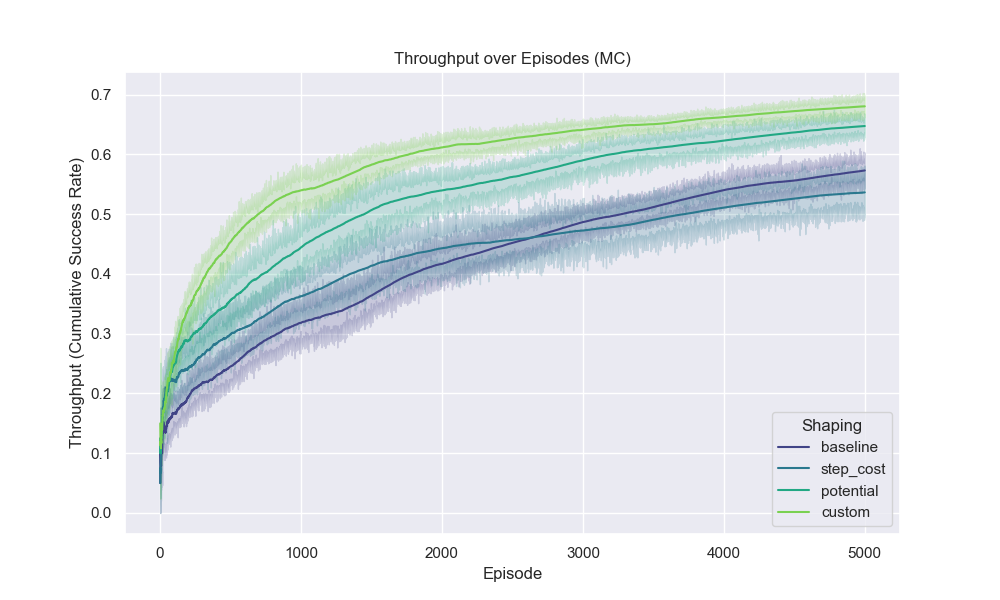
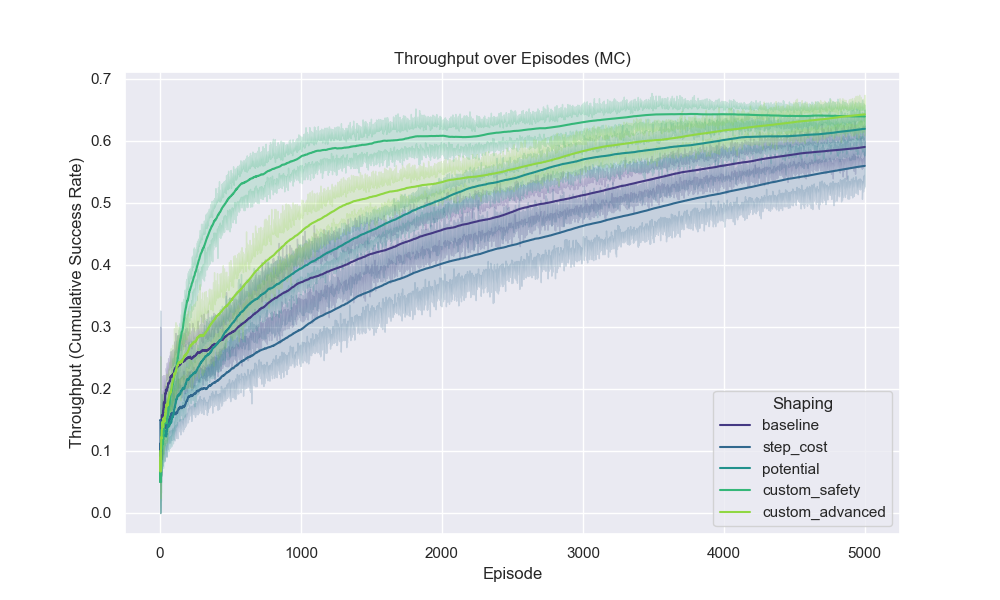
now can select if want defauly Hyper or to sweep first

diff --git a/main.py b/main.py
@@ -1,13 +1,19 @@
 import os
+import copy
 from src.maps import get_map
 from src.experiments import run_experiment_suite
-from src.plotting import plot_throughput, plot_returns, plot_policy_distance
+from src.plotting import plot_throughput, plot_returns
 from src.hyperparameter_study import find_best_hyperparameters
 
 # --- Configuration ---
 MAP_SIZE = 6            
 N_RUNS = 20             
 EPISODES = 5000         
+
+# === המתג שביקשת ===
+# True = בצע סריקה (Sweep), מצא את ה-Alpha הכי טוב, והשתמש בו (עם Gamma=1.0).
+# False = אל תבצע סריקה, השתמש בערכים המוגדרים למטה ב-TRAIN_CONFIG.
+USE_OPTIMIZED_PARAMS = True 
 
 # Environment Parameters
 ENV_CONFIG = {
@@ -22,13 +28,13 @@ ENV_CONFIG = {
     }
 }
 
-# Base Training Parameters (will be updated by sweep)
+# Base Training Parameters (Defaults)
 TRAIN_CONFIG = {
     'episodes': EPISODES,
     'agent_params': {
         'epsilon': 0.1,
-        'alpha': 0.1,   # Default placeholder
-        'gamma': 1.0,   # Default placeholder
+        'alpha': 0.1,   # ערך ברירת מחדל (אם המתג כבוי)
+        'gamma': 1.0,   # חובה להיות 1.0 בניסוי הראשי
         'min_epsilon': 0.01,
         'epsilon_decay': 0.9995 
     }
@@ -39,24 +45,33 @@ def main():
     os.makedirs("results", exist_ok=True)
     
     algorithms_to_run = ["MC", "SARSA"]
-    shaping_types = ["baseline", "step_cost", "potential", "custom"]
+    
+    # רשימת כל סוגי העיצוב (כולל החדשים שהוספנו)
+    shaping_types = ["baseline", "step_cost", "potential", "custom_safety", "custom_advanced"]
 
     for algo in algorithms_to_run:
-        # --- STEP 1: Hyperparameter Sweep ---
-        # מוצאים את הפרמטרים הכי טובים לפני שמתחילים את הניסוי הגדול
-        print(f"\nRunning sensitivity study to find best params for {algo}...")
-        best_params = find_best_hyperparameters(algo)
-        
-        # מעדכנים את הקונפיגורציה עם המנצחים
-        current_train_config = TRAIN_CONFIG.copy()
-        current_train_config['agent_params'].update(best_params)
-        
-        print(f"\nUsing optimized parameters for {algo}: {best_params}")
+        print(f"{'='*40}")
+        print(f"PREPARING ALGORITHM: {algo}")
+        print(f"{'='*40}")
+
+        # יצירת עותק עמוק של הקונפיגורציה כדי לא לדרוס ריצות קודמות
+        current_train_config = copy.deepcopy(TRAIN_CONFIG)
+
+        # --- לוגיקת המתג ---
+        if USE_OPTIMIZED_PARAMS:
+            print(f"b[SWITCH ON] Running sensitivity study to find best Alpha for {algo}...")
+            # הפונקציה הזו כבר מוגדרת להחזיר Gamma=1.0 קבוע
+            best_params = find_best_hyperparameters(algo)
+            
+            # עדכון הפרמטרים עם מה שמצאנו
+            current_train_config['agent_params'].update(best_params)
+            print(f">>> Selected Optimized Parameters: {best_params}")
+        else:
+            print(f"[SWITCH OFF] Using DEFAULT parameters from TRAIN_CONFIG.")
+            print(f">>> Current Parameters: {current_train_config['agent_params']}")
         
         # --- STEP 2: Main Comparison ---
-        print(f"{'='*40}")
-        print(f"STARTING MAIN ANALYSIS FOR: {algo}")
-        print(f"{'='*40}")
+        print(f"\nSTARTING MAIN EXPERIMENTS FOR: {algo}")
         
         results_df, runs_data, best_agent = run_experiment_suite(
             agent_type=algo,
@@ -70,13 +85,9 @@ def main():
         
         plot_throughput(results_df, title_suffix=f"({algo})")
         
-        # כאן הגרף יצא חלק ויפה בזכות התיקון ב-plotting.py
+        # שימוש בפונקציית ה-Returns המתוקנת (עם החלקה)
         plot_returns(results_df, title_suffix=f"({algo})")
 
-        # Optional: Uncomment if you want policy distance
-        # if best_agent is not None:
-        #     plot_policy_distance(runs_data, best_agent, title_suffix=f"({algo})")
-        
         print(f"Finished {algo}. Check 'results' folder.\n")
 
     print("\nALL DONE! All experiments completed.")

diff --git a/visualize_agent.py b/visualize_agent.py
@@ -1,0 +1,103 @@
+import gymnasium as gym
+import numpy as np
+import time
+import sys
+import os
+
+# הוספת התיקייה הנוכחית ל-path כדי שהייבוא יעבוד חלק
+sys.path.append(os.getcwd())
+
+from src.maps import get_map
+from src.sarsa_agent import SarsaAgent
+from src.mc_agent import MonteCarloAgent
+from src.wrappers import RewardShapingWrapper
+
+def visualize_policy(agent_type="SARSA", shaping_type="custom_advanced"):
+    """
+    מאמן סוכן זריז ומציג את הביצועים שלו ויזואלית על המסך.
+    """
+    # הגדרות כמו בניסוי
+    map_size = 6
+    desc = get_map(map_size)
+    
+    # 1. יצירת סביבת אימון (בלי גרפיקה - כדי שיהיה מהיר)
+    print(f"--- Training {agent_type} agent with {shaping_type} shaping... ---")
+    train_env = gym.make("FrozenLake-v1", desc=desc, is_slippery=True)
+    
+    # עטיפה עם ה-Shaping שבחרנו
+    train_env = RewardShapingWrapper(
+        train_env, 
+        shaping_type=shaping_type,
+        step_cost_c=-0.01,
+        potential_beta=1.0,
+        custom_c=0.5
+    )
+    
+    n_actions = train_env.action_space.n
+    n_states = train_env.observation_space.n
+    
+    # אתחול הסוכן עם פרמטרים טובים (מהניסויים שלך)
+    if agent_type == "SARSA":
+        agent = SarsaAgent(n_actions, n_states, epsilon=0.1, alpha=0.1, gamma=0.99)
+    else:
+        agent = MonteCarloAgent(n_actions, n_states, epsilon=0.1, alpha=0.1, gamma=0.99)
+        
+    # אימון קצר יחסית (3000 פרקים מספיקים בדרך כלל כדי ללמוד את המפה הזו)
+    for ep in range(3000):
+        obs, _ = train_env.reset()
+        done = False
+        action = agent.get_action(obs)
+        
+        while not done:
+            next_state, reward, done, truncated, _ = train_env.step(action)
+            
+            if agent_type == "SARSA":
+                next_action = agent.get_action(next_state)
+                agent.update(obs, action, reward, next_state, next_action, done)
+                obs, action = next_state, next_action
+            else:
+                # MC Logic (פשוט יותר לדמו - רק אוסף מידע, העדכון האמיתי קורה בסוף אבל כאן אנחנו רק רוצים שהסוכן יזוז)
+                # הערה: עבור דמו מהיר, SARSA עדיף כי הוא מתעדכן תוך כדי תנועה.
+                # ב-MC מלא היינו צריכים לשמור את כל הפרק. כאן נשתמש ב-SARSA כברירת מחדל.
+                obs = next_state
+                action = agent.get_action(obs)
+                
+    print("Training finished. Starting visualization...")
+    train_env.close()
+
+    # 2. שלב ההצגה (עם גרפיקה)
+    # render_mode='human' פותח את החלון
+    env = gym.make("FrozenLake-v1", desc=desc, is_slippery=True, render_mode="human")
+    env = RewardShapingWrapper(env, shaping_type=shaping_type) # רק בשביל התאימות
+    
+    state, _ = env.reset()
+    done = False
+    
+    # מכבים את האקספלורציה (Epsilon=0) כדי לראות את המדיניות הכי טובה שנלמדה (Exploitation בלבד)
+    agent.epsilon = 0.0
+    
+    print("Agent is running... (Look at the popup window)")
+    
+    steps = 0
+    total_reward = 0
+    
+    while not done and steps < 100:
+        # הצגת הפעולה
+        action = agent.get_action(state)
+        state, reward, done, truncated, _ = env.step(action)
+        total_reward += reward
+        steps += 1
+        
+        # השהייה קטנה כדי שיהיה אפשר לראות את הצעדים בעין
+        time.sleep(0.5) 
+        
+    env.close()
+    
+    if total_reward > 0:
+        print(f"RESULT: Success! The agent reached the goal in {steps} steps.")
+    else:
+        print("RESULT: Failed. The agent fell into a hole or got stuck.")
+
+if __name__ == "__main__":
+    # הרצת הדמו עם הסוכן המנצח שלך
+    visualize_policy(agent_type="SARSA", shaping_type="custom_advanced")

diff --git a/src/wrappers.py b/src/wrappers.py
@@ -31,7 +31,8 @@ class RewardShapingWrapper(gym.Wrapper):
         
         # --- OPTIMIZATION: Pre-calculate Potentials ---
         self.potentials = np.zeros(self.n_states)
-        if self.shaping_type == "potential":
+        # מחשבים פוטנציאלים גם עבור ה-Advanced
+        if self.shaping_type in ["potential", "custom_advanced"]:
             for s in range(self.n_states):
                 self.potentials[s] = self._calculate_potential_logic(s)
 
@@ -50,10 +51,6 @@ class RewardShapingWrapper(gym.Wrapper):
     def _calculate_potential_logic(self, state: int) -> float:
         return -float(self._get_distance(state))
 
-    def _potential(self, state: int) -> float:
-        """Fast lookup O(1)"""
-        return self.potentials[state]
-
     def reset(self, **kwargs):
         obs, info = super().reset(**kwargs)
         self.last_state = obs
@@ -70,37 +67,48 @@ class RewardShapingWrapper(gym.Wrapper):
         self.state_visits[next_state] += 1
         
         F = 0.0
+        
+        # --- Baseline ---
         if self.shaping_type == "baseline":
             F = 0.0
+            
+        # --- Step Cost ---
         elif self.shaping_type == "step_cost":
             F = self.step_cost_c
+            
+        # --- Potential Based ---
         elif self.shaping_type == "potential":
-            # Using cached values
             phi_next = self.potentials[next_state]
             phi_prev = self.potentials[self.last_state] if self.last_state is not None else 0.0
             F = self.potential_beta * ((self.gamma * phi_next) - phi_prev)
-        elif self.shaping_type == "custom":
-            # 1. Potential Component (Directional guidance - "The Compass")
-            # Calculate potential difference based on distance to goal
+            
+        # --- Custom 1: Safety First (בטיחות) ---
+        elif self.shaping_type == "custom_safety":
+            # הרעיון: עונש כבד מאוד אך ורק אם נופלים לבור.
+            # אנחנו מוודאים שזה בור (done=True וגם reward=0) וגם שזה לא נגמר בגלל הגבלת צעדים (truncated)
+            if done and reward == 0 and not truncated:
+                F = -1.0  # עונש משמעותי על נפילה
+            else:
+                F = 0.0
+
+        # --- Custom 2: Advanced Guidance (המשולב) ---
+        elif self.shaping_type == "custom_advanced":
+            # 1. Potential Component (המצפן)
             phi_next = self.potentials[next_state]
             phi_prev = self.potentials[self.last_state] if self.last_state is not None else 0.0
             potential_reward = self.potential_beta * ((self.gamma * phi_next) - phi_prev)
             
-            # 2. Step Cost Component (Encourages efficiency)
-            # A very small penalty to encourage shorter paths without causing 
-            # "suicide" behavior (terminating early to avoid accumulated costs).
+            # 2. Step Cost (יעילות)
             step_penalty = -0.001 
             
-            # 3. Safety Component (Penalty for holes)
+            # 3. Safety (עונש על בור)
             hole_penalty = 0.0
-            if done and reward == 0:
-                # One-time specific penalty for falling into a hole
+            if done and reward == 0 and not truncated:
                 hole_penalty = -0.5 
             
-            # Combine all components: Guidance + Efficiency + Safety
             F = potential_reward + step_penalty + hole_penalty
 
-        # Apply decay (Fast math)
+        # Apply decay
         if self.decay_rate < 1.0:
             k = max(1, self.episode_count)
             decay_factor = self.decay_rate ** (k - 1)
